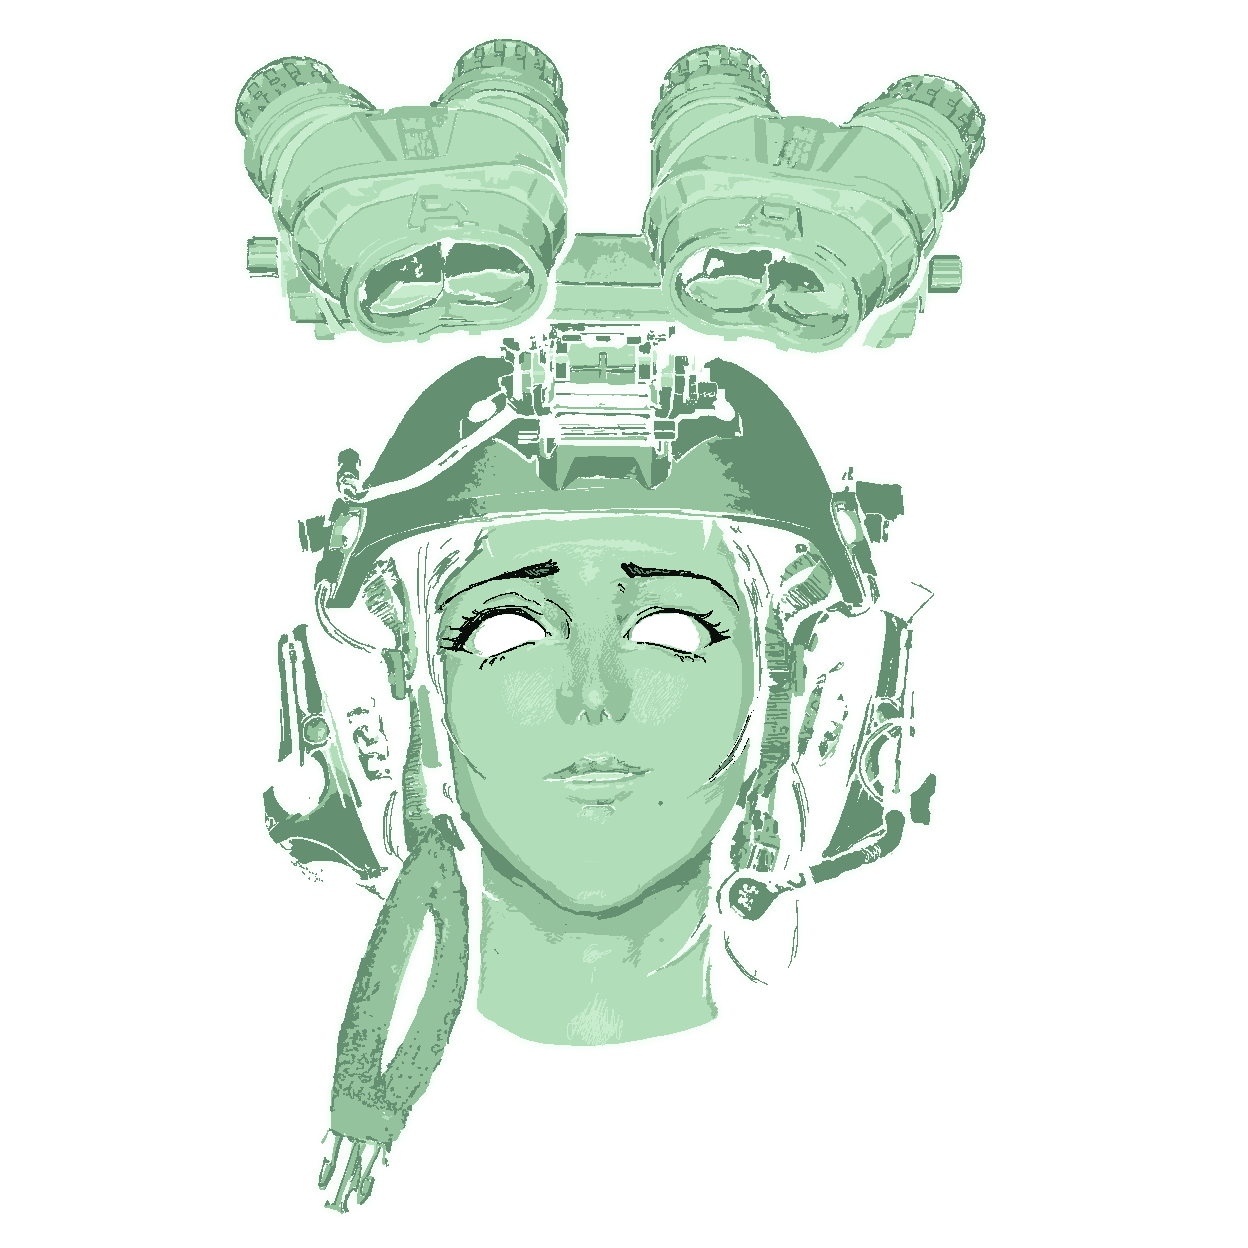
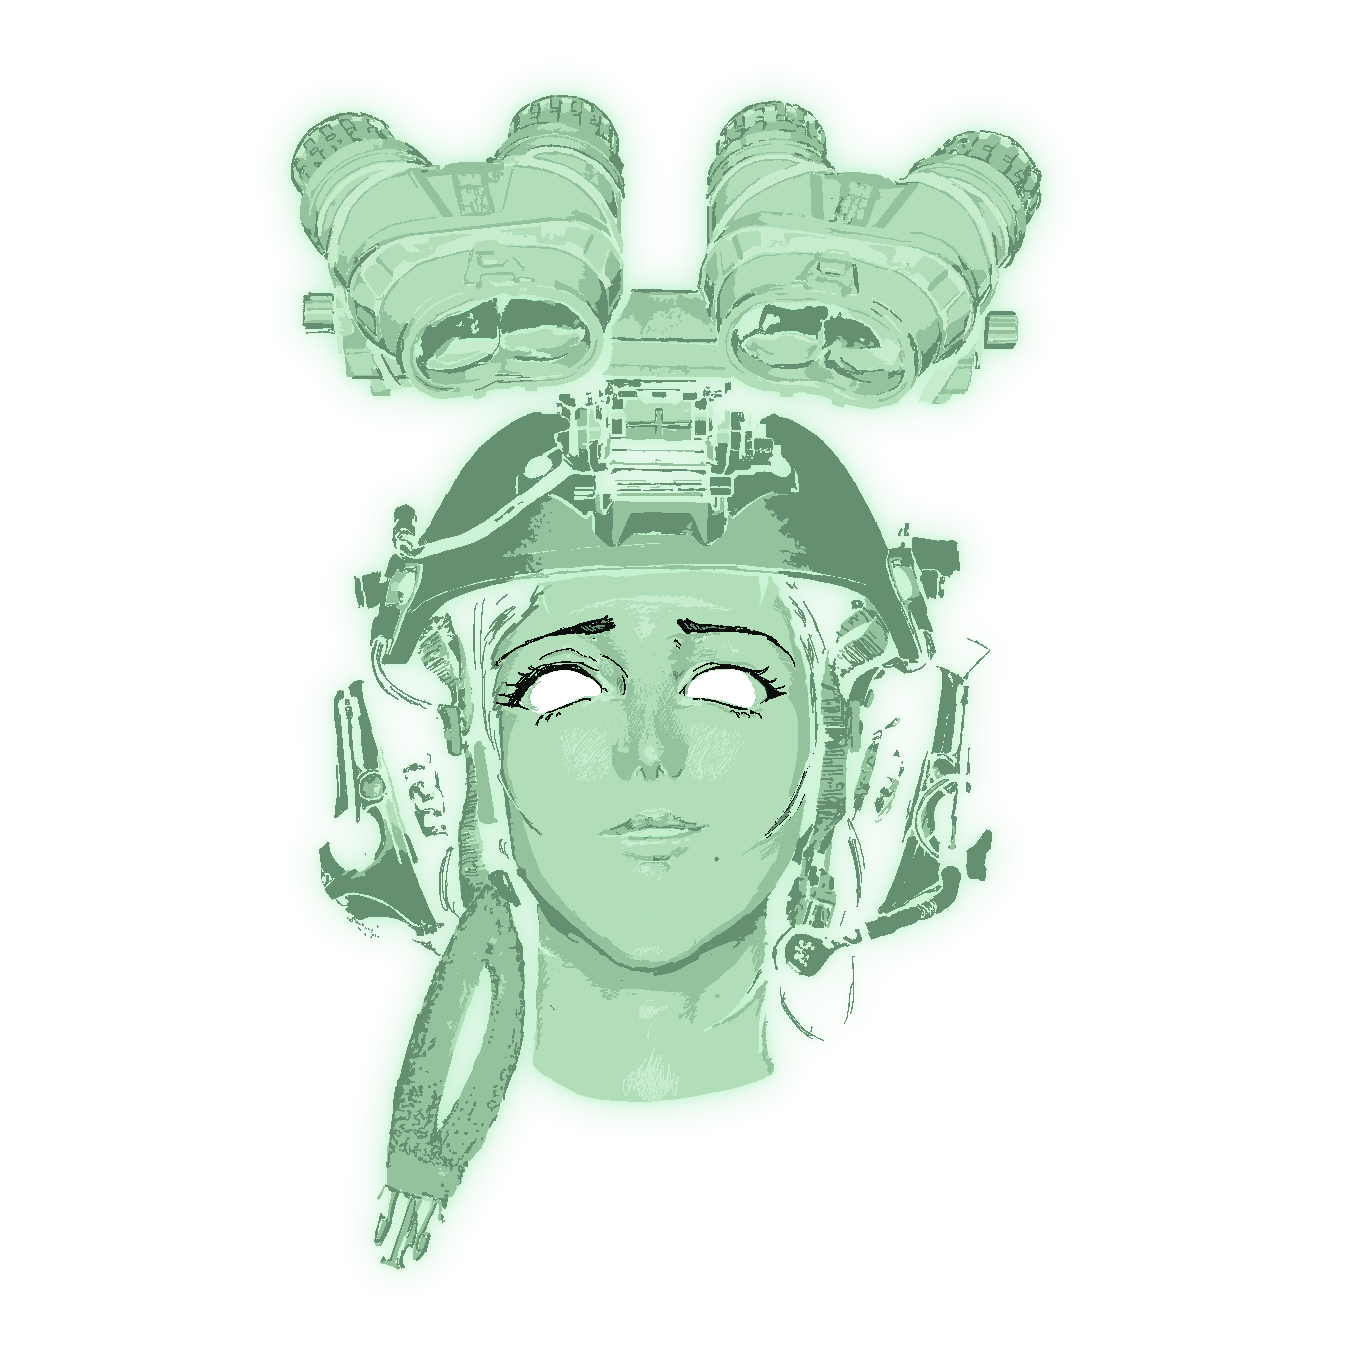
CRT glow pass: glow tokens, radial vignette, screen bezel, Watcher flicker and jitter, baked two-layer glow
Harold's values (2026-10-26):
- Glow: --crt-glow-head (headings, hero title), --crt-glow-ui (menu names, brand, active items),
  --crt-glow-link (amber links), --crt-glow-body (paragraphs, CRT on only). Phosphor-specific value
  tokens follow html[data-crt]; Win95 and light contexts get none; the dark equipment panel keeps body
  and link glow. Amber: same strengths, amber colours. Fixes the green glow on the Win95 promo headline.
- Scanlines .07; the fixed overlay vignette is radial; a rounded bezel in CRT on above 480px
  (pointer-events none, z-index 21, below every window, popup and menu).
- Watcher-only motion in CRT on: stepped 1.3s opacity flicker (dips held ~26ms) and a 2px / 90ms jitter
  every 3.5-9s, on their own wrappers apart from eye tracking; reduced motion stops both. The jitter
  writes data-jitter directly, so the Watcher never re-renders.
- Watcher glow baked: two chained drop-shadow layers (sharp minAmplitude 0.01), 1360px canvas with 80px
  padding and an edge check; WatcherArt and the layer CSS follow the new padding.
- Hero description reads --crt-text explicitly (it already computed to it).

Changed region(s): [[0.1875, 0.0312, 0.8125, 0.9688]]

diff --git a/app/(frontend)/globals.css b/app/(frontend)/globals.css
@@ -101,15 +101,26 @@
   --crt-deep: #060a06;
   --crt-deep-hi: #071007;
   --crt-deep-lo: #030503;
-  --crt-glow: 0 0 4px rgba(180, 245, 195, 0.35);
+  /* Glow (Harold, 2026-10-26). The *-value tokens hold the phosphor colours and follow html[data-crt] (off: none;
+     reduced: no body glow). Rules use the public tokens below; Win95 and light contexts set those to none. */
+  --crt-glow-head-value: 0 0 3px rgba(212, 245, 218, 0.8), 0 0 18px rgba(140, 230, 165, 0.5);
+  --crt-glow-ui-value: 0 0 6px rgba(180, 245, 195, 0.55);
+  --crt-glow-link-value: 0 0 6px rgba(232, 180, 90, 0.55);
+  --crt-glow-body-value: 0 0 2.8px rgba(168, 216, 176, 0.24);
+  --crt-glow-head: var(--crt-glow-head-value);
+  --crt-glow-ui: var(--crt-glow-ui-value);
+  --crt-glow-link: var(--crt-glow-link-value);
+  --crt-glow-body: var(--crt-glow-body-value);
   --crt-glow-filter: 0 0 4px rgba(180, 245, 195, 0.35);
   /* Phosphor-matched recolour (layout.tsx SVG filters) and baked Watcher layers (scripts/bake-watcher-crt.mjs). */
   --crt-tune-filter: url(#crt-tune);
   --watcher-base: url("/images/watcher/watcher-base.crt.png");
   --watcher-noise: url("/images/watcher/crt-noise.png");
   /* CRT effect strengths; html[data-crt] switches them (on / reduced / off). */
-  --crt-scanline-alpha: 0.06;
+  --crt-scanline-alpha: 0.07;
+  /* Panels keep the inset vignette; the fixed screen overlay (.crt) uses the radial one. */
   --crt-vignette: inset 0 0 60px rgba(0, 0, 0, 0.5);
+  --crt-overlay-vignette: radial-gradient(ellipse at 50% 45%, transparent 55%, rgba(0, 0, 0, 0.55) 100%);
   --crt-font: var(--font-plex-mono, "IBM Plex Mono"), "Courier New", Courier, monospace;
 
   --bg: var(--crt-bg);
@@ -145,9 +156,15 @@ body {
   letter-spacing: 0.01em;
 }
 
-/* Headings and the brand glow; body text does not. Win95 and light project windows turn the glow off. */
-:where(h1, h2, h3, .brand) { color: var(--crt-bright); text-shadow: var(--crt-glow); }
-.retro-window, .project-application { --crt-glow: none; }
+/* Glow: headings (head), brand, menu names and active items (ui), amber links (link), paragraphs (body, CRT "on" only).
+   Win95 chrome and light windows get none; the equipment panel is a dark terminal island inside a light window. */
+:where(h1, h2, h3) { color: var(--crt-bright); text-shadow: var(--crt-glow-head); }
+.brand { text-shadow: var(--crt-glow-ui); }
+:where(p) { text-shadow: var(--crt-glow-body); }
+.retro-window, .project-application, .promo-window, .pixel-monitor, .desktop-file, .desktop-inspector {
+  --crt-glow-head: none; --crt-glow-ui: none; --crt-glow-link: none; --crt-glow-body: none;
+}
+.equipment-panel { --crt-glow-body: var(--crt-glow-body-value); --crt-glow-link: var(--crt-glow-link-value); }
 /* Amber phosphor (SYSTEM menu, saved as crt-phosphor). Same contrast targets as green: text 12.0:1, bright 15.5:1,
    mid 7.7:1, dim 5.1:1 on --crt-bg. The accent can't be amber here, so links are warm cream and underlined. */
 html[data-phosphor="amber"] {
@@ -165,15 +182,21 @@ html[data-phosphor="amber"] {
   --crt-deep: #0a0704;
   --crt-deep-hi: #110b05;
   --crt-deep-lo: #050302;
-  --crt-glow: 0 0 4px rgba(255, 210, 150, 0.35);
+  --crt-glow-head-value: 0 0 3px rgba(255, 224, 176, 0.8), 0 0 18px rgba(240, 175, 90, 0.5);
+  --crt-glow-ui-value: 0 0 6px rgba(255, 210, 150, 0.55);
+  --crt-glow-link-value: 0 0 6px rgba(255, 241, 214, 0.55);
+  --crt-glow-body-value: 0 0 2.8px rgba(235, 196, 140, 0.24);
   --crt-glow-filter: 0 0 4px rgba(255, 210, 150, 0.35);
   --crt-tune-filter: url(#crt-tune-amber);
   --watcher-base: url("/images/watcher/watcher-base.amber.png");
   --watcher-noise: url("/images/watcher/crt-noise.amber.png");
 }
 html[data-phosphor="amber"] .equipment-panel a { text-decoration: underline; text-underline-offset: 3px; }
-html[data-crt="reduced"] { --crt-scanline-alpha: 0.03; --crt-vignette: none; }
-html[data-crt="off"] { --crt-scanline-alpha: 0; --crt-vignette: none; --crt-glow: none; --crt-glow-filter: 0 0 0 transparent; }
+html[data-crt="reduced"] { --crt-scanline-alpha: 0.03; --crt-vignette: none; --crt-overlay-vignette: none; --crt-glow-body-value: none; }
+html[data-crt="off"] {
+  --crt-scanline-alpha: 0; --crt-vignette: none; --crt-overlay-vignette: none; --crt-glow-filter: 0 0 0 transparent;
+  --crt-glow-head-value: none; --crt-glow-ui-value: none; --crt-glow-link-value: none; --crt-glow-body-value: none;
+}
 
 a {
   color: inherit;
@@ -228,7 +251,7 @@ button {
   white-space: nowrap;
 }
 .system-menu[data-open] .system-menu-button,
-.sound-toggle[aria-pressed="true"] { color: var(--hot); }
+.sound-toggle[aria-pressed="true"] { color: var(--hot); text-shadow: var(--crt-glow-ui); }
 .system-menu-panel {
   position: absolute;
   top: calc(100% + 12px);
@@ -285,7 +308,23 @@ button {
   content: "";
   position: absolute;
   inset: 0;
-  box-shadow: var(--crt-vignette);
+  background: var(--crt-overlay-vignette);
+}
+
+/* Screen bezel (CRT "on", wider than 480px): rounded corners, a faint inner edge and a thin dark frame over the page
+   edge. Never takes clicks; above the scanline overlay, below every window, popup, menu and the boot gate. Content keeps
+   at least an 11px side margin at these widths, so the 6px frame and the corner wedges stay clear of it. */
+.crt-bezel { display: none; }
+@media (min-width: 481px) {
+  html[data-crt="on"] .crt-bezel {
+    display: block;
+    position: fixed;
+    inset: 6px;
+    z-index: 21;
+    pointer-events: none;
+    border-radius: 22px;
+    box-shadow: inset 0 0 0 1px rgba(var(--crt-border-rgb), 0.14), 0 0 0 64px var(--crt-deep-lo);
+  }
 }
 
 @keyframes crt-sweep {
@@ -319,7 +358,7 @@ button {
   color: var(--hot);
   letter-spacing: -0.07em;
 
-  text-shadow: 0 0 14px rgba(var(--crt-text-rgb), 0.13);
+  text-shadow: var(--crt-glow-head);
 }
 
 /* Long-form prose: ~70ch measure, body colour and size. Grids, tables and terminal panels keep their own widths. */
@@ -328,6 +367,9 @@ button {
   color: var(--green);
   font-size: 16px;
 }
+
+/* The hero description reads the terminal token directly (in light project windows --green is dark grey). */
+.hero .lede { color: var(--crt-text); }
 
 /* HOMEPAGE TERMINAL */
 
@@ -737,6 +779,7 @@ button {
 .menu-name {
   font-size: 16px;
   font-weight: 400;
+  text-shadow: var(--crt-glow-ui);
 }
 
 .terminal-nav a:hover,
@@ -782,13 +825,14 @@ button {
   will-change: transform;
 }
 
-/* The tuned layers carry 24px of glow padding on a 1200px canvas (2%), so the art keeps its original size and position. */
+/* The tuned layers carry 80px of glow padding around the 1200px art (1360px canvas), so the art keeps its original size
+   and position. */
 .watcher-art > svg,
 .watcher-art > .watcher-base {
   position: absolute;
-  inset: -2%;
-  width: 104%;
-  height: 104%;
+  inset: calc(-100% * 80 / 1200);
+  width: calc(100% * 1360 / 1200);
+  height: calc(100% * 1360 / 1200);
   pointer-events: none;
 }
 
@@ -803,6 +847,31 @@ html[data-phosphor="amber"] .watcher-eyes-amber { display: inline; }
 .watcher-eyes {
   /* SVG user units preserve these limits on the 1200px source canvas. */
   transform: translate(calc(var(--mx, 0) * 10px), calc(var(--my, 0) * 5px));
+}
+
+/* Watcher-only motion, CRT "on" only (Harold, 2026-10-26): a stepped opacity flicker on .watcher-flicker and a rare
+   2px jitter on .watcher-jitter (Watcher.tsx sets data-jitter). Both wrap the art, apart from the eye-tracking
+   transforms on .watcher-art and .watcher-eyes, and sit under the static grain and the labels. */
+.watcher-jitter,
+.watcher-flicker {
+  position: absolute;
+  inset: 0;
+}
+
+html[data-crt="on"] .watcher-jitter { will-change: transform; }
+html[data-crt="on"] .watcher-jitter[data-jitter="left"] { transform: translateX(-2px); }
+html[data-crt="on"] .watcher-jitter[data-jitter="right"] { transform: translateX(2px); }
+html[data-crt="on"] .watcher-flicker { will-change: opacity; animation: watcher-flicker 1.3s step-end infinite; }
+
+/* Dips of 3% or less, each held for 2% of the loop (~26ms, at least one frame at 60Hz), then back to full. */
+@keyframes watcher-flicker {
+  0% { opacity: 1; }
+  14% { opacity: 0.97; }
+  16% { opacity: 1; }
+  47% { opacity: 0.982; }
+  49% { opacity: 1; }
+  78% { opacity: 0.975; }
+  80% { opacity: 1; }
 }
 
 .watcher-static {
@@ -1484,7 +1553,9 @@ footer {
   }
 
   .watcher-art,
-  .watcher-eyes {
+  .watcher-eyes,
+  .watcher-jitter,
+  .watcher-flicker {
     will-change: auto;
     transition: none !important;
     transform: none !important;
@@ -1954,7 +2025,7 @@ body:has(.startup-sequence[data-phase="boot"]) { overflow: hidden; }
 .equipment-panel .equipment-specifications > div { border-bottom: 1px dotted rgba(var(--crt-border-rgb), .22); }
 .equipment-panel .equipment-specifications dt { color: var(--crt-dim); opacity: 1; }
 .equipment-panel .equipment-specifications dd { color: var(--crt-bright); }
-.equipment-panel a { color: var(--crt-accent); }
+.equipment-panel a { color: var(--crt-accent); text-shadow: var(--crt-glow-link); }
 /* Wide modules: specs in two columns, the description below them (it may extend past the fold). */
 @container (min-width: 420px) {
   .equipment-panel { display: flex; flex-direction: column; padding: .65rem 1rem .8rem; }
@@ -2016,7 +2087,7 @@ body:has(.startup-sequence[data-phase="boot"]) { overflow: hidden; }
 :where(a, button, [role="tab"], summary, .equipment-card):not(:where(.retro-window:not(.project-application), .pixel-monitor, .promo-window, .startup-sequence, .window-taskbar, .project-app-nav, .retro-window-titlebar, .desktop-file) *):not(:where(.skip-link, .equipment-card a, .patron-locked-trigger, p a, dd a, .content-writing a)):is(:focus-visible, :active),
 .equipment-card:has(a:focus-visible, a:active) {
   color: var(--hot);
-  text-shadow: var(--crt-glow);
+  text-shadow: var(--crt-glow-ui);
   /* Transparent normally; Windows High Contrast turns it into a real outline. */
   outline: 2px solid transparent;
   outline-offset: 2px;
@@ -2030,7 +2101,7 @@ body:has(.startup-sequence[data-phase="boot"]) { overflow: hidden; }
 @media (hover: hover) {
   :where(a, button, [role="tab"], summary, .equipment-card):not(:where(.retro-window:not(.project-application), .pixel-monitor, .promo-window, .startup-sequence, .window-taskbar, .project-app-nav, .retro-window-titlebar, .desktop-file) *):not(:where(.skip-link, .equipment-card a, .patron-locked-trigger, p a, dd a, .content-writing a)):hover {
     color: var(--hot);
-    text-shadow: var(--crt-glow);
+    text-shadow: var(--crt-glow-ui);
   }
   :where(a, button, [role="tab"], summary, .equipment-card):not(:where(.retro-window:not(.project-application), .pixel-monitor, .promo-window, .startup-sequence, .window-taskbar, .project-app-nav, .retro-window-titlebar, .desktop-file) *):not(:where(.skip-link, .equipment-card a, .patron-locked-trigger, p a, dd a, .content-writing a)):hover::after {
     opacity: 1;
@@ -2040,12 +2111,12 @@ body:has(.startup-sequence[data-phase="boot"]) { overflow: hidden; }
 /* Links inside running text: colour and glow only; brackets around wrapped text read as broken. */
 :where(p a, dd a, .content-writing a):not(:where(.retro-window:not(.project-application), .pixel-monitor, .promo-window, .startup-sequence) *):is(:focus-visible, :active) {
   color: var(--hot);
-  text-shadow: var(--crt-glow);
+  text-shadow: var(--crt-glow-ui);
 }
 @media (hover: hover) {
   :where(p a, dd a, .content-writing a):not(:where(.retro-window:not(.project-application), .pixel-monitor, .promo-window, .startup-sequence) *):hover {
     color: var(--hot);
-    text-shadow: var(--crt-glow);
+    text-shadow: var(--crt-glow-ui);
   }
 }
 

diff --git a/components/Watcher.tsx b/components/Watcher.tsx
@@ -9,12 +9,35 @@ const EYE_CENTER = { x: 560 / 1200, y: 610 / 1200 };
 // How long a touch gaze holds after the finger lifts, and a keyboard glance holds on its target.
 const TOUCH_HOLD_MS = 1200;
 
+// CRT jitter (CRT "on" only, never under reduced motion): at a random moment every 3.5-9s the art shifts 2px for 90ms.
+const JITTER_MIN_MS = 3500;
+const JITTER_MAX_MS = 9000;
+const JITTER_MS = 90;
+
 // Dispatched by HighlightEffects when keyboard focus lands on a control: the Watcher glances at that point.
 export type WatcherGlanceDetail = { x: number; y: number };
 export const WATCHER_GLANCE_EVENT = "migrainz:watcher-glance";
 
 export default function Watcher() {
   const root = useRef<HTMLDivElement>(null);
+  const jitter = useRef<HTMLDivElement>(null);
+  // Jitter: written straight to the wrapper's data-jitter (no React state, so the Watcher still never re-renders).
+  // The checks run at each tick, so switching CRT mode or reduced motion takes effect without a reload.
+  useEffect(() => {
+    const element = jitter.current!;
+    const motion = window.matchMedia("(prefers-reduced-motion: reduce)");
+    let next = 0, back = 0;
+    const schedule = () => { next = window.setTimeout(jolt, JITTER_MIN_MS + Math.random() * (JITTER_MAX_MS - JITTER_MIN_MS)); };
+    const jolt = () => {
+      if (document.documentElement.dataset.crt === "on" && !motion.matches && !document.hidden) {
+        element.dataset.jitter = Math.random() < 0.5 ? "left" : "right";
+        back = window.setTimeout(() => { delete element.dataset.jitter; }, JITTER_MS);
+      }
+      schedule();
+    };
+    schedule();
+    return () => { clearTimeout(next); clearTimeout(back); delete element.dataset.jitter; };
+  }, []);
   useEffect(() => {
     const container = root.current!;
     const readoutX = container.querySelector<HTMLElement>("#readout-x")!;
@@ -138,7 +161,12 @@ export default function Watcher() {
   return (
     <div ref={root} className="watcher" id="watcher" aria-label="Cursor-reactive watcher artwork">
       <div className="watcher-label">VISUAL NODE / CURSOR TEST</div>
-      <WatcherArt />
+      {/* Motion wrappers (CRT "on" only): jitter outermost, flicker inside, the eye-tracked art inside both. */}
+      <div ref={jitter} className="watcher-jitter">
+        <div className="watcher-flicker">
+          <WatcherArt />
+        </div>
+      </div>
       <div className="watcher-static" aria-hidden="true" />
       <div className="scan-readout">
         <span>X <b id="readout-x">000</b></span>

diff --git a/components/WatcherArt.tsx b/components/WatcherArt.tsx
@@ -4,9 +4,10 @@ export default function WatcherArt() {
   const socketId = useId();
   return (
     <div className="watcher-art" role="img" aria-label="Studio Migrainz watcher wearing night-vision goggles">
-      {/* Layers are the pre-tuned scripts/bake-watcher-crt.mjs output: 1248px canvases, 24px of glow padding around the 1200px art.
-          Each phosphor has its own baked set; html[data-phosphor] picks one in CSS, so the saved choice never flashes. */}
-      <svg viewBox="-24 -24 1248 1248" aria-hidden="true">
+      {/* Layers are the pre-tuned scripts/bake-watcher-crt.mjs output: 1360px canvases, 80px of glow padding around the 1200px art
+          (the outer glow layer is a 16px drop-shadow). Each phosphor has its own baked set; html[data-phosphor] picks one in
+          CSS, so the saved choice never flashes. */}
+      <svg viewBox="-80 -80 1360 1360" aria-hidden="true">
         <defs>
           {/* Fixed socket apertures in original image coordinates. */}
           <clipPath id={socketId}>
@@ -17,8 +18,8 @@ export default function WatcherArt() {
         <g clipPath={`url(#${socketId})`}>
           {/* Watcher.tsx moves this one group; the inactive phosphor layer is display: none. */}
           <g className="watcher-eyes">
-            <image className="watcher-eyes-green" href="/images/watcher/watcher-eyes.crt.png" x="-24" y="-24" width="1248" height="1248" />
-            <image className="watcher-eyes-amber" href="/images/watcher/watcher-eyes.amber.png" x="-24" y="-24" width="1248" height="1248" />
+            <image className="watcher-eyes-green" href="/images/watcher/watcher-eyes.crt.png" x="-80" y="-80" width="1360" height="1360" />
+            <image className="watcher-eyes-amber" href="/images/watcher/watcher-eyes.amber.png" x="-80" y="-80" width="1360" height="1360" />
           </g>
         </g>
       </svg>

diff --git a/app/(frontend)/layout.tsx b/app/(frontend)/layout.tsx
@@ -69,6 +69,7 @@ export default async function RootLayout({ children }: { children: ReactNode }) 
             SKIP TO CONTENT
           </a>
           <div className="crt" aria-hidden="true" />
+          <div className="crt-bezel" aria-hidden="true" />
           <TerminalHeader />
           <main className="shell" id="top" tabIndex={-1}>
             {children}
